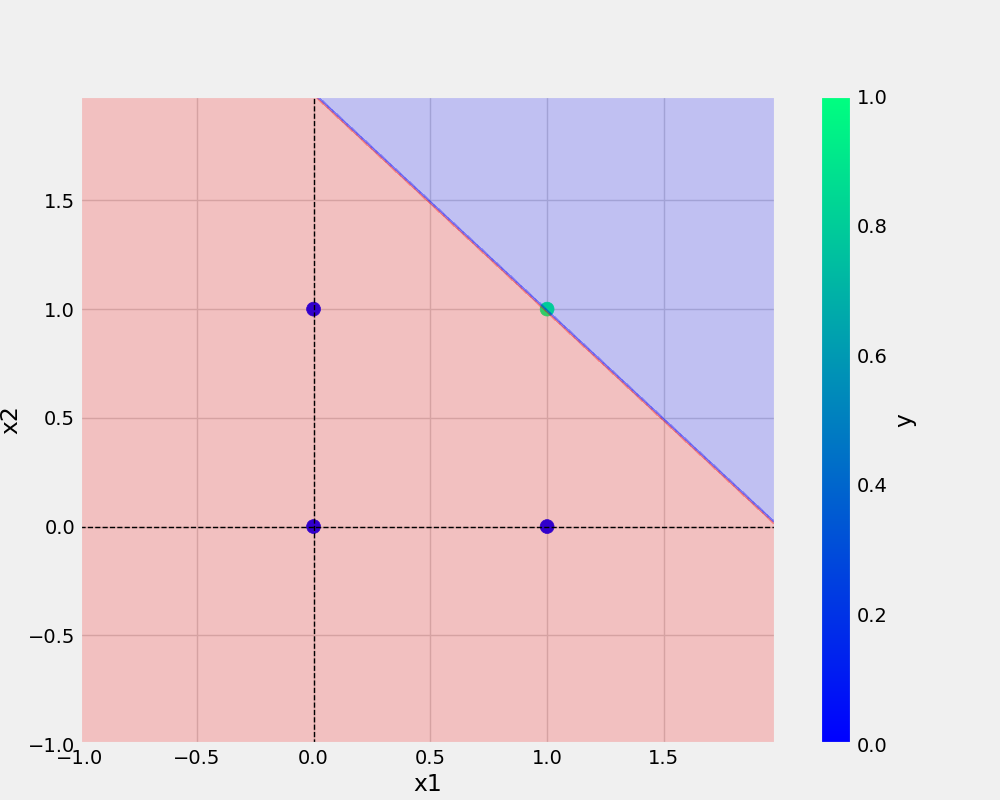
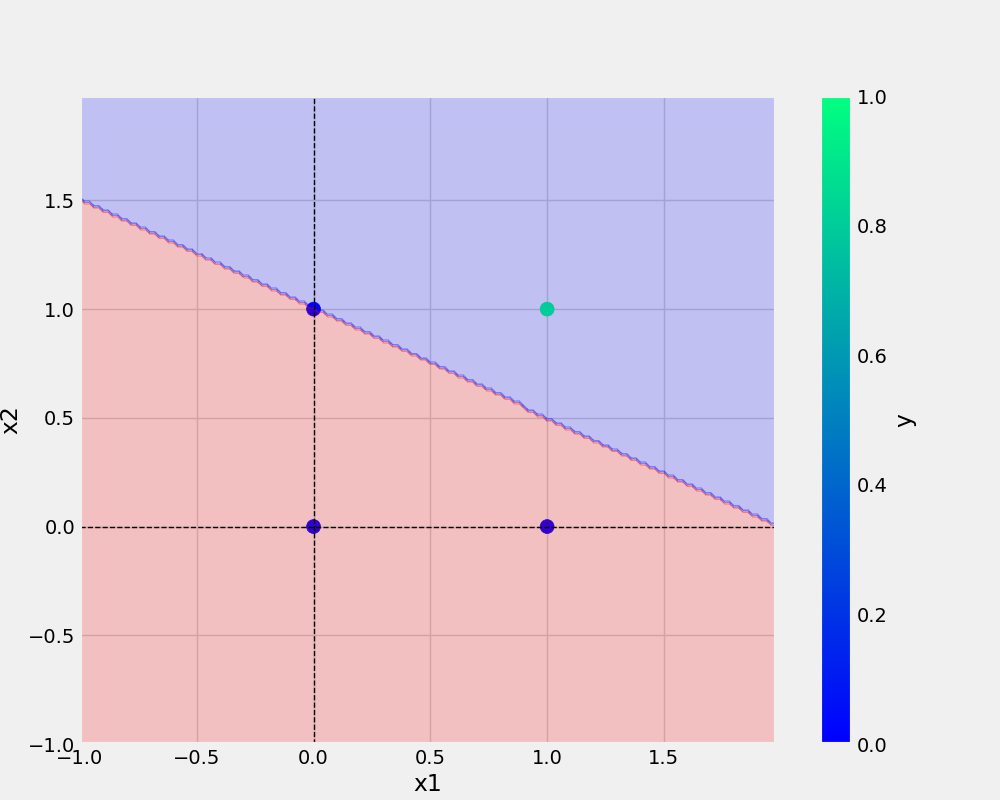
code organise

Changed region(s): [[0.062, 0.125, 0.775, 0.6562]]

diff --git a/and.py b/and.py
@@ -3,23 +3,26 @@ from utils.all_utils import prepare_data, save_plot, save_model
 import pandas as pd
 import numpy as np
 
-AND = {
-    "x1": [0,0,1,1],
-    "x2": [0,1,0,1],
-    "y": [0,0,0,1],
-}
 
-df = pd.DataFrame(AND)
+def main(data, ETA, EPOCHS, filename, plot_filename):
 
-X,y = prepare_data(df)
+    df = pd.DataFrame(AND)
 
-ETA = 0.3 # 0 and 1
-EPOCHS = 10
+    X,y = prepare_data(df)
 
-model = Perceptron(eta=ETA, epochs=EPOCHS)
-model.fit(X, y)
+    model = Perceptron(eta=ETA, epochs=EPOCHS)
+    model.fit(X, y)
 
-_ = model.total_loss()
+    _ = model.total_loss()
 
-save_model(model, "and.model")
-save_plot(df, "and.png", model)
+    save_model(model, filename)
+    save_plot(df, plot_filename, model)
+
+
+if __name__ == '__main__':
+    AND = {
+        "x1": [0,0,1,1],
+        "x2": [0,1,0,1],
+        "y": [0,0,0,1],
+    }
+    main(data = AND, ETA = 0.3, EPOCHS = 10, filename = 'and.model', plot_filename = "and.png")

diff --git a/or.py b/or.py
@@ -1,0 +1,30 @@
+from utils.model import Perceptron
+from utils.all_utils import prepare_data, save_plot, save_model
+import pandas as pd
+import numpy as np
+
+def main(data, ETA, EPOCHS, filename, plot_filename):
+
+    df = pd.DataFrame(OR)
+
+    X,y = prepare_data(df)
+
+    ETA = 0.3 # 0 and 1
+    EPOCHS = 10
+
+    model_OR = Perceptron(eta=ETA, epochs=EPOCHS)
+    model_OR.fit(X, y)
+
+    _ = model_OR.total_loss()
+    
+    save_model(model_OR, filename)
+    save_plot(df, plot_filename, model_OR)
+
+
+if __name__ == '__main__':
+    OR = {
+        "x1": [0,0,1,1],
+        "x2": [0,1,0,1],
+        "y": [0,1,1,1],
+    }
+    main(data = OR, ETA = 0.3, EPOCHS = 10, filename = 'or.model', plot_filename = "or.png")
